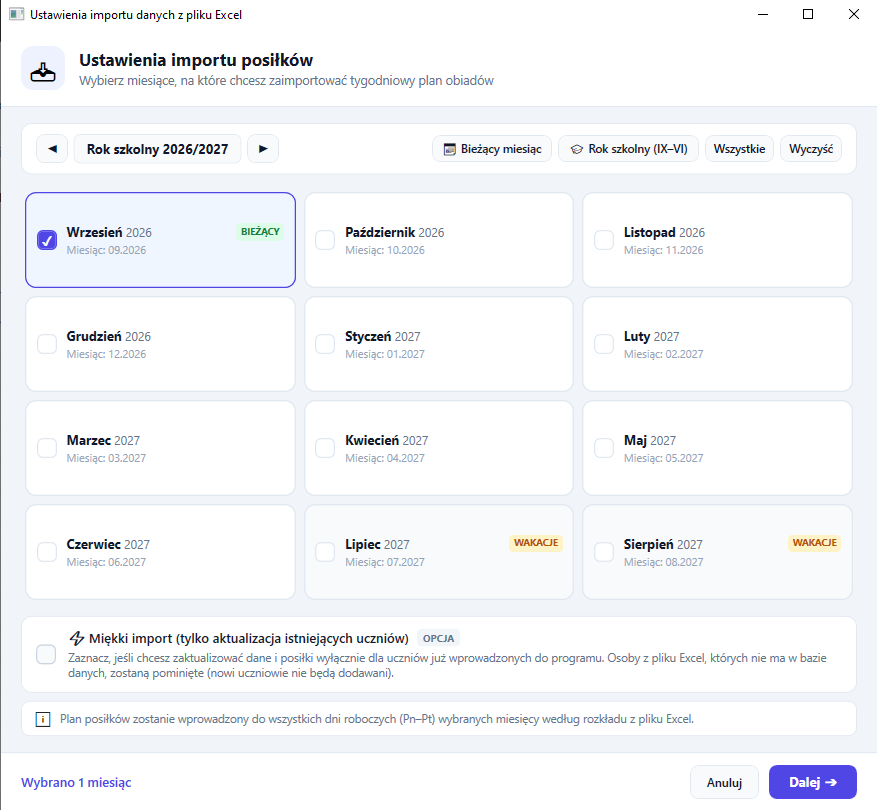
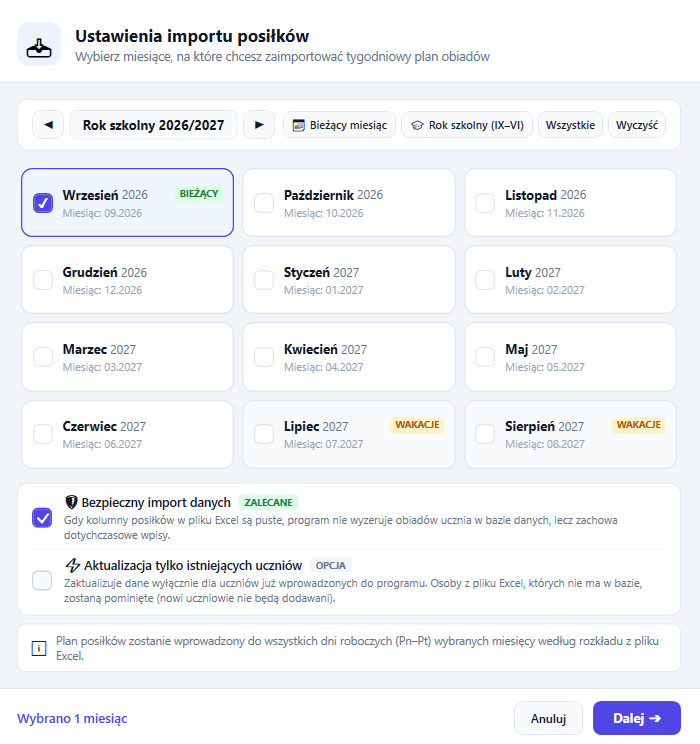
1.7

diff --git a/frontend/src/data/manualChapters.js b/frontend/src/data/manualChapters.js
@@ -121,89 +121,90 @@ Możliwość usunięcia profilu ucznia (np. po przeprowadzce do innej szkoły) j
   {
     id: "import-danych-excel",
     number: "03",
-    title: "Import danych z pliku Excel (.xlsx) i miękki import",
+    title: "Import danych z pliku Excel (.xlsx) i bezpieczna aktualizacja",
     shortTitle: "Import z Excela (.xlsx)",
     category: "Dane i uczniowie",
     iconName: "FileSpreadsheet",
     hasExcelTemplate: true,
     screenshotSize: "medium",
-    description: "Masowy import uczniów, kontaktów i tygodniowych planów posiłków z gotowego pliku .xlsx oraz inteligentna funkcja miękkiego importu.",
-    content: `Import z pliku Excel to najszybszy sposób na uruchomienie programu we wrześniu lub w nowym semestrze. W jednym kroku wgrywasz listę uczniów z podziałem na klasy, kontakty do rodziców oraz tygodniowy grafik obiadów.
+    description: "Masowy import uczniów, kontaktów i grafików posiłków z pliku .xlsx, ochrona istniejących obiadów oraz aktualizacja bez ryzyka utraty danych.",
+    content: `Import z pliku Excel to najszybszy sposób na uruchomienie programu we wrześniu oraz bieżącą aktualizację bazy w trakcie roku szkolnego. Program pozwala wgrać listę uczniów, kontakty do rodziców oraz tygodniowy grafik obiadów w kilka sekund.
 
-### Struktura kolumn pliku Excel (.xlsx)
-Arkusz importu składa się z 15 kolumn podzielonych na dwie przejrzyste części:
-
-1. **Dane osobowe i kontakty (Kolumny A – E)**:
-   - **Kolumna A (klasa)**: Oznaczenie klasy (np. *1A*, *2B*, *Oddział Przedszkolny*).
-   - **Kolumna B (nazwisko i imię)**: Dane ucznia w formacie *Nazwisko Imię*.
-   - **Kolumna C (numer do mamy)**: Telefon kontaktowy do mamy (opcjonalny).
-   - **Kolumna D (numer do taty)**: Telefon kontaktowy do taty (opcjonalny).
-   - **Kolumna E (adres e-mail)**: E-mail do comiesięcznych rozliczeń (opcjonalny).
-
-2. **Tygodniowy plan posiłków (Kolumny F – O)**:
-   - Nagłówki dni roboczych: **Poniedziałek**, **Wtorek**, **Środa**, **Czwartek**, **Piątek**.
-   - Pod każdym dniem znajdują się dwie kolumny: **zupa** oraz **II danie**.
-   - W komórkach wpisujesz:
-     - **1** – uczeń jada dany posiłek w ten dzień tygodnia.
-     - **0** (lub pusta komórka) – uczeń nie korzysta z tego posiłku.
-   *(Program w pełni obsługuje także starsze pliki 14-kolumnowe bez kolumny e-mail).*
+### Pełna elastyczność formatu arkusza Excel (.xlsx)
+Program automatycznie dopasowuje się do struktury Twojego pliku:
+1. **Pełny arkusz obiadowy (15 kolumn)**:
+   - **Kolumny A – E (Dane osobowe i kontakty)**: Klasa, Nazwisko i imię, Telefon do mamy, Telefon do taty, Adres e-mail.
+   - **Kolumny F – O (Plan posiłków Pn – Pt)**: Pod każdym dniem roboczym kolumny *zupa* oraz *II danie* (wpisujesz \`1\` = posiłek wykupiony, \`0\` lub puste = brak posiłku).
+2. **Starsze szablony szkolne (14 kolumn)**: Pełne wsparcie dla arkuszy bez kolumny adresu e-mail.
+3. **Arkusze tylko z kontaktami (od 2 do 5 kolumn)**: Jeśli chcesz zaktualizować wyłącznie same telefony, e-maile czy klasy uczniów bez ruszania posiłków – program bez problemu odczyta taki plik!
 
 ---
 
 ### Dwuetapowy proces importu posiłków
-Po kliknięciu przycisku *„Importuj .xlsx”* program prowadzi Cię przez dwa proste kroki:
+Po kliknięciu przycisku *„Importuj .xlsx”* nad listą uczniów program prowadzi Cię przez dwa proste kroki:
 
-- **Krok 1 – Wybór zakresu i trybu**:
-  - **Wybór roku szkolnego**: Program automatycznie rozpoznaje bieżący cykl (np. *2026/2027*).
-  - **Przyciski szybkiego zaznaczania**:
-    - *Bieżący miesiąc* – importuje grafik tylko na trwający miesiąc.
-    - *Rok szkolny (IX–VI)* – jednym ruchem zaznacza 10 miesięcy nauki szkolnej (od września do czerwca). Miesiące wakacyjne są wyraźnie wyróżnione.
-    - *Wszystkie* / *Wyczyść* – pełna kontrola nad zakresem miesięcy.
-  - **Opcja „Miękki import”**: Specjalny przełącznik na dole okna (szczegóły poniżej).
+- **Krok 1 – Wybór zakresu i opcji**:
+  - **Wybór roku szkolnego i miesięcy**: Wskazujesz rok szkolny (np. *2026/2027*) oraz zaznaczasz miesiące obowiązywania planu (przyciski: *Bieżący miesiąc*, *Rok szkolny (IX–VI)*, *Wszystkie* / *Wyczyść*). Miesiące wakacyjne są wyraźnie wyróżnione.
+  - Na dole okna konfigurujesz dwie kluczowe opcje bezpieczeństwa (szczegółowo opisane poniżej).
 
-- **Krok 2 – Wskazanie pliku i automatyczne rozpisanie**:
-  - Wskazujesz plik \`.xlsx\`. Program pobiera tygodniowe deklaracje i powiela je na **wszystkie dni robocze** wybranych miesięcy, automatycznie pomijając weekendy oraz zdefiniowane w programie święta i ferie.
+- **Krok 2 – Wskazanie pliku i czytelne podsumowanie**:
+  - Wskazujesz przygotowany plik \`.xlsx\`. Program automatycznie rozpisuje obiady na dni robocze wybranych miesięcy (omijając weekendy i ferie).
+  - Po zakończeniu wyświetla **dokładny raport z podsumowaniem**: liczbę dodanych uczniów, zaktualizowanych profili, pominiętych osób, zaktualizowanych grafików oraz obiadów zachowanych bez zmian.
 
 ---
 
-### Czym jest „Miękki import” i kiedy go włączyć?
-Na dole okna importu znajduje się przełącznik:
-**⚡ Miękki import (tylko aktualizacja istniejących uczniów)**
+### Opcja 1: 🛡 Bezpieczny import danych [ZALECANE]
+Ta opcja jest **domyślnie włączona** i stanowi główną tarczę chroniącą Twoje dotychczasowe dane:
 
-- **Gdy opcja jest ODZNACZONA (Tryb pełny – domyślny)**:
-  Program dodaje do bazy wszystkich nowych uczniów z pliku, a dla istniejących aktualizuje dane i plany. To najlepszy tryb na początek roku szkolnego.
-- **Gdy opcja jest ZAZNACZONA (Miękki import)**:
-  Program aktualizuje dane i deklaracje **wyłącznie dla dzieci, które już wcześniej znajdują się w bazie**. Nowe nazwiska z pliku zostaną bezpiecznie pominięte (żadne nowe konto nie zostanie utworzone). Nic z dotychczasowej bazy nie jest usuwane.
+- **Jak działa?**
+  Gdy w importowanym pliku Excel którekolwiek kolumny są  puste, program **nie wyzeruje zapisanych danych ucznia w bazie**, lecz bezpiecznie zachowa dotychczasowe wpisy.
+- **Ochrona kontaktów i posiłków**:
+  Puste komórki w pliku Excel dla klasy, telefonów do rodziców lub adresu e-mail, czy planowanych posiłków **nigdy nie kasują** danych wprowadzonych wcześniej do programu.
+- **Kiedy z niej korzystać?**
+  Zawsze! Dzięki niej możesz w trakcie roku bezpiecznie zaimportować plik z nowymi numerami telefonów czy zaktualizowanymi adresami e-mail od rodziców bez obaw, że uczniom znikną zamówione obiady.
 
-**Kiedy warto włączyć Miękki import?**
-- Gdy w trakcie roku otrzymujesz nowy arkusz ze zmianami deklaracji i chcesz nanieść korekty tylko obecnym stołownikom.
-- Gdy plik Excel zawiera całą szkołę (np. 400 uczniów), a na obiady zapisało się tylko 150 osób – miękki import zaktualizuje plany stołowników bez zaśmiecania bazy pozostałymi dziećmi.`,
+---
+
+### Opcja 2: ⚡ Aktualizacja tylko istniejących uczniów [OPCJA]
+Ta funkcja pozwala precyzyjnie kontrolować, kto trafia do Twojej bazy danych:
+
+- **Jak działa?**
+  Gdy zaznaczysz tę opcję, program naniesie zmiany **wyłącznie u dzieci, które już znajdują się w programie**. Wszystkie nowe nazwiska z pliku Excel zostaną zignorowane (żaden nowy uczeń nie zostanie dopisany).
+- **Ochrona przed zaśmieceniem bazy**:
+  Nic z bazy nie jest usuwane – Twoja dotychczasowa lista uczniów pozostaje w 100% nienaruszona.
+- **Kiedy z niej korzystać?**
+  Gdy otrzymujesz ze szkolnego sekretariatu zbiorczy plik obejmujący całą szkołę (np. 500 uczniów), a obiady jada tylko 160 zapisanych dzieci. Włączenie tej opcji zaktualizuje dane stołowników bez dodawania pozostałych 340 uczniów do bazy.`,
     screenshots: [
       {
         src: "/screenshots/ustawienia_importu_posilkow.png",
-        caption: "Okno konfiguracji importu posiłków: wybór roku szkolnego, zakresu miesięcy oraz funkcja miękkiego importu"
+        caption: "Okno konfiguracji importu posiłków: wybór miesięcy oraz opcje 'Bezpieczny import danych' i 'Aktualizacja tylko istniejących uczniów'"
       }
     ],
     steps: [
       "Pobierz gotowy wzór pliku .xlsx (zielony przycisk poniżej) lub skopiuj nagłówki do pustego arkusza.",
-      "Uzupełnij listę uczniów: klasa, nazwisko i imię, telefony, e-maile oraz wpisz cyfrę 1 przy posiłkach, które dziecko jada.",
+      "Uzupełnij arkusz danymi uczniów (możesz wpisać pełne deklaracje obiadów lub same dane kontaktowe).",
       "W programie kliknij przycisk „Importuj .xlsx” w lewym panelu nad listą uczniów i wskaż przygotowany plik.",
-      "Zaznacz miesiące, na które ma obowiązywać plan (np. przyciskiem „Rok szkolny (IX-VI)”).",
-      "Jeśli aktualizujesz tylko obecnych uczniów bez dopisywania nowych osób, zaznacz opcję „Miękki import”.",
-      "Kliknij „Dalej”. Program w kilka sekund zaimportuje dane i przygotuje ewidencję na wszystkie wybrane miesiące."
+      "W oknie ustawień zaznacz miesiące, na które ma obowiązywać grafik (np. „Rok szkolny (IX-VI)”).",
+      "Pozostaw włączony „Bezpieczny import danych”, aby chronić dotychczasowe obiady przed przypadkowym wyzerowaniem.",
+      "Jeśli aktualizujesz tylko obecnych stołowników bez dopisywania nowych osób, zaznacz opcję „Aktualizacja tylko istniejących uczniów”.",
+      "Kliknij „Dalej ➔”. Program zaktualizuje bazę i wyświetli raport podsumowujący operację."
     ],
     faq: [
       {
-        q: "Co wpisać w polach zupy i drugiego dania, jeśli uczeń nie jada w dany dzień?",
-        a: "Wpisz cyfrę 0 lub pozostaw komórkę pustą. Program zinterpretuje to jako brak posiłku."
+        q: "Co daje opcja „Bezpieczny import danych”?",
+        a: "Chroni Cię przed przypadkowym skasowaniem danych wpisanych w programie. Jeśli na przykład, w pliku Excel nie wypełnisz kolumn z posiłkami (bo chcesz zaktualizować np. tylko nowe telefony rodziców), program zachowa wszystkie dotychczasowe plany obiadów uczniów bez zmian."
       },
       {
-        q: "Czy w pliku Excel muszę obowiązkowo podawać numery telefonów i e-maile?",
-        a: "Nie, są to pola opcjonalne. Jeśli ich nie wpiszesz, uczeń zostanie zaimportowany, a dane kontaktowe możesz dopisać w dowolnej chwili w programie."
+        q: "Co się stanie, jeśli w pliku Excel komórka z telefonem jest pusta, a uczeń ma już telefon w bazie?",
+        a: "Program inteligentnie chroni Twoje dane – pusta komórka w Excelu nie skasuje zapisanego wcześniej numeru telefonu ani adresu e-mail."
       },
       {
-        q: "Czy miękki import usunie uczniów, których nie ma w nowym pliku Excel?",
-        a: "Nie! Miękki import nigdy niczego nie usuwa z bazy. Ignoruje jedynie nowe nazwiska z pliku, a Twoja dotychczasowa baza pozostaje w 100% bezpieczna."
+        q: "Czy mogę zaimportować plik z samymi kontaktami (bez kolumn z posiłkami)?",
+        a: "Tak! Program obsługuje arkusze o różnej liczbie kolumn (od 2 do 15). Dzięki Bezpiecznemu importowi możesz wgrać same kontakty, a obiady dzieci pozostaną nienaruszone."
+      },
+      {
+        q: "Kiedy włączyć opcję „Aktualizacja tylko istniejących uczniów”?",
+        a: "Włącz ją, gdy dostajesz z sekretariatu plik obejmujący całą szkołę (np. 500 dzieci), a chcesz zaktualizować dane wyłącznie tych 180 uczniów, którzy są już zapisani na obiady w programie."
       }
     ]
   },

diff --git a/frontend/src/components/ManualGuide.jsx b/frontend/src/components/ManualGuide.jsx
@@ -10,7 +10,7 @@ import {
   Download, 
   Settings, 
   Database,
-  GraduationCap, 
+  GraduationCap,  
   Search, 
   ChevronDown, 
   CheckCircle2, 
@@ -25,7 +25,8 @@ import {
   Check,
   FileDown,
   Zap,
-  Table
+  Table,
+  ShieldCheck
 } from 'lucide-react';
 import { MANUAL_CHAPTERS } from '../data/manualChapters.js';
 
@@ -645,14 +646,38 @@ export default function ManualGuide({ onDownloadClick }) {
                     </div>
                   </div>
 
-                  {/* Karta wyjaśniająca miękki import */}
-                  <div className="mt-5 p-4 rounded-xl bg-amber-50/90 border border-amber-200/90 text-amber-900 flex items-start gap-3 shadow-2xs">
-                    <Zap className="w-5 h-5 text-amber-600 shrink-0 mt-0.5" />
-                    <div className="text-xs sm:text-sm leading-relaxed">
-                      <strong className="font-bold text-amber-950 block mb-1">
-                        Czym jest „Miękki import” w programie Dinner App?
-                      </strong>
-                      Zaznacz pole <em>„Miękki import (tylko aktualizacja istniejących uczniów)”</em> w oknie importu posiłków, gdy chcesz zaktualizować dane i plany obiadów <strong>wyłącznie dla dzieci, które już są w bazie</strong>. Nowe nazwiska z pliku zostaną bezpiecznie zignorowane, a dotychczasowa historia rozliczeń i odpisów pozostanie nienaruszona.
+                  {/* Karty wyjaśniające opcje bezpieczeństwa importu */}
+                  <div className="mt-5 grid grid-cols-1 md:grid-cols-2 gap-3.5">
+                    {/* Bezpieczny import danych */}
+                    <div className="p-4 rounded-xl bg-emerald-50/90 border border-emerald-200/90 text-emerald-950 flex items-start gap-3 shadow-2xs">
+                      <ShieldCheck className="w-5 h-5 text-emerald-600 shrink-0 mt-0.5" />
+                      <div className="text-xs sm:text-sm leading-relaxed">
+                        <div className="flex items-center gap-2 mb-1">
+                          <strong className="font-bold text-emerald-950">
+                            Bezpieczny import danych
+                          </strong>
+                          <span className="px-1.5 py-0.5 rounded text-[10px] font-bold bg-emerald-200 text-emerald-900 uppercase">
+                            Zalecane
+                          </span>
+                        </div>
+                        Gdy kolumny posiłków w pliku Excel są puste (lub wgrywasz plik z samymi kontaktami), program <strong>nie wyzeruje obiadów ucznia w bazie</strong>, lecz zachowa dotychczasowe wpisy. Puste komórki nie nadpisują również istniejących numerów telefonów i adresów e-mail.
+                      </div>
+                    </div>
+
+                    {/* Aktualizacja tylko istniejących uczniów */}
+                    <div className="p-4 rounded-xl bg-amber-50/90 border border-amber-200/90 text-amber-950 flex items-start gap-3 shadow-2xs">
+                      <Zap className="w-5 h-5 text-amber-600 shrink-0 mt-0.5" />
+                      <div className="text-xs sm:text-sm leading-relaxed">
+                        <div className="flex items-center gap-2 mb-1">
+                          <strong className="font-bold text-amber-950">
+                            Aktualizacja tylko istniejących uczniów
+                          </strong>
+                          <span className="px-1.5 py-0.5 rounded text-[10px] font-bold bg-amber-200 text-amber-900 uppercase">
+                            Opcja
+                          </span>
+                        </div>
+                        Zaktualizuje dane i grafiki obiadów <strong>wyłącznie dla dzieci już wprowadzonych do programu</strong>. Nowe nazwiska z pliku Excel zostaną bezpiecznie pominięte (żadni nowi uczniowie nie będą dodawani), chroniąc bazę przed zaśmieceniem.
+                      </div>
                     </div>
                   </div>
                 </div>
